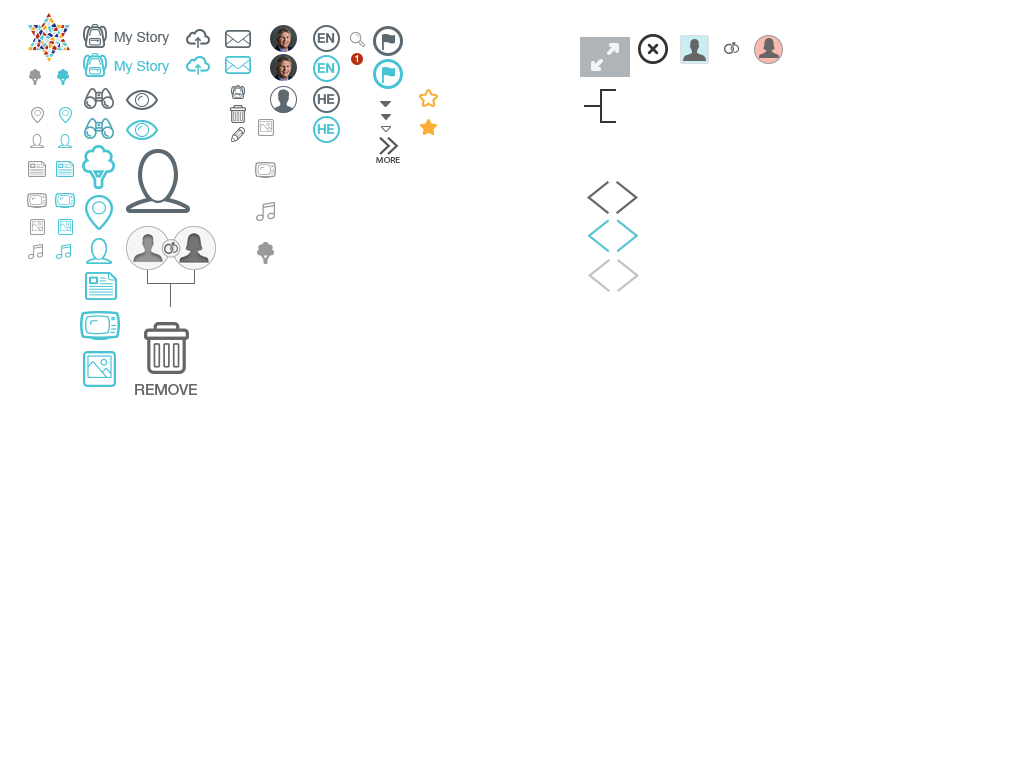
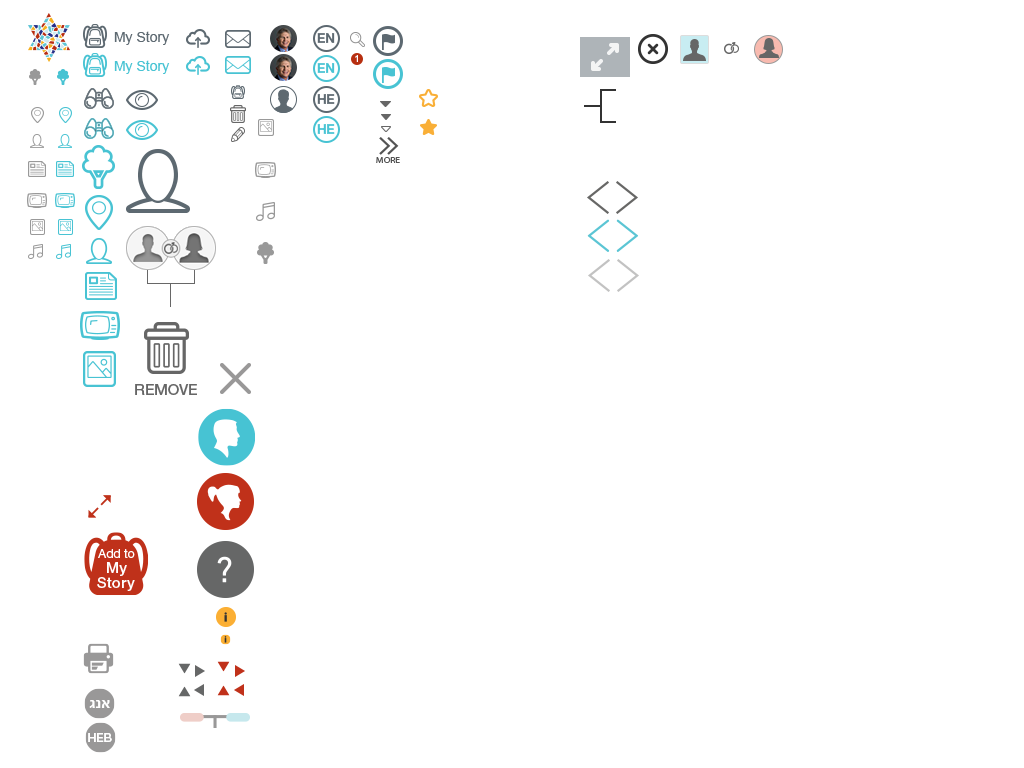
ftrees-redesign-1

Changed region(s): [[0.1562, 0.4688, 0.25, 0.9375], [0.0625, 0.6875, 0.1562, 0.7812], [0.0625, 0.8438, 0.125, 1.0]]

diff --git a/scss/main/_ftrees.scss b/scss/main/_ftrees.scss
@@ -9,7 +9,6 @@
 		min-height: 870px;
 		margin: 0 auto;
 		background: #ffffff;
-		/*@include border-radius(8px);*/
 		padding: 24px 18px 10px;
 
 		.tree-view & {
@@ -17,15 +16,36 @@
 		}
 
 		.title {
-			font-size: 25px;
-			padding-bottom: 22px;
-			/*border-bottom: 2px solid #f5f5f5;*/
+			width: 100%;
+			font-size: 24px;
+			padding-bottom: 17px;
 			background-color: #999999;
 			color: #ffffff;
+			left: -26px;
+			/*margin-left: -24px;*/
+			position: relative;
+
+
 
 			.tree-view & {
 				display: none;
+			}
+			&__tree-icon {
+				float: left;
+				width: 43px;
+				height: 43px;
 			}	
+		}
+		.title:after {
+			content:'';
+			position: absolute;
+			right: -20px;
+			top:0;
+			bottom:0;    
+			width:0px;
+			height:0px;
+			border-top: 45px solid #999999;
+			border-right: 20px solid transparent; 
 		}
 
 		.filters {
@@ -34,6 +54,16 @@
 			width: 230px;
 			padding: 8px 5px 2px;
 
+			&__update {
+				background: #bf311a;
+				color: #efcdc7;
+				text-align: center;
+				padding: 5px 0;
+				width: 200px;
+				height: 42px;
+				font-size: 13px;
+			}
+
 			.tree-view & {
 				display: none;
 			}	
@@ -41,24 +71,7 @@
 			&__title {
 				margin-bottom: 12px;
 				font-size: 15px;
-
-				&__tree-icon {
-					width: 30px;
-					height: 20px;
-				}
 			}
-
-/*			&__actions {
-				padding: 0 5px 2px;
-				border-bottom: 2px solid #f5f5f5;
-				margin-bottom: 20px;*/
-
-				/*&__update {
-					width: 98px;
-					height: 23px;
-					font-size: 10px;
-					color: #ffffff;
-				}*/
 
 				&__clear {
 					padding-top: 8px;
@@ -73,7 +86,6 @@
 						float: left;
 					}
 				}
-			/*}*/
 
 			&__field,
 			&__fudge-field {
@@ -241,26 +253,6 @@
 						}
 					}
 				}
-			}
-
-			/*&__update, &__actions__update {
-				background: #bf311a;
-				color: #efcdec7;
-				text-align: center;
-				padding: 5px 0;
-				/*@include box-shadow(inset 1px 1px 3px 1px #1eb1c1);
-				@include border-radius(3px);
-			}*/
-
-			&__update {
-				background: #bf311a;
-				color: #efcdc7;
-				text-align: center;
-				padding: 5px 0;
-				width: 200px;
-				height: 42px;
-				font-size: 13px;
-				/*margin-top: 23px;*/
 			}
 
 		}

diff --git a/templates/main/ftrees/ftrees.html b/templates/main/ftrees/ftrees.html
@@ -1,18 +1,15 @@
 <div id="family-trees-container" ng-class="{'tree-view': ftreesCtrl.tree_view}">
 	<div id="tree-sort">
 		<div class="title">
-			<icon class="title__tree-icon" position="[-378, -136]"></icon>
+			<icon class="title__tree-icon" position="[-80, -435]"></icon>
 			<en>Family Trees Search Results</en>
 			<he>תוצאות חיפוש עמי משפחה</he>
 		</div>
 		<form class="filters" name="filters">
-			<div class="filters__actions">
-				<!-- <button class="filters__actions__update" ng-click="ftreesCtrl.search()"> -->
 				<button class="filters__update" ng-click="ftreesCtrl.search()">
 					<en>Update</en>
 					<he>עדכן</he>
 				</button>
-			</div>
 			<div class="filters__field">
 				<div class="container">
 					<label>

diff --git a/templates/auth/auth_modal.html b/templates/auth/auth_modal.html
@@ -1,4 +1,5 @@
 <div class="auth-modal" ng-switch on="authController.is_register">
+		<icon class="auth-modal_xsign" position="[-378, -136]" ng-click="authController.dismiss()"></icon>
 	<div class="auth-modal__icon"></div>
 	<!-- registration form -->
 	<div ng-switch-when="true">

diff --git a/scss/auth/_modal.scss b/scss/auth/_modal.scss
@@ -52,6 +52,14 @@
 				text-align: center;
 				font-size: 16px;
 			}
+			&__xsign {
+				position: absolute;
+				top: -45px;
+				right: -58px;
+				width: 30px;
+				height: 30px;
+
+			}
 
 			.auth-form {
 				width: 425px;
